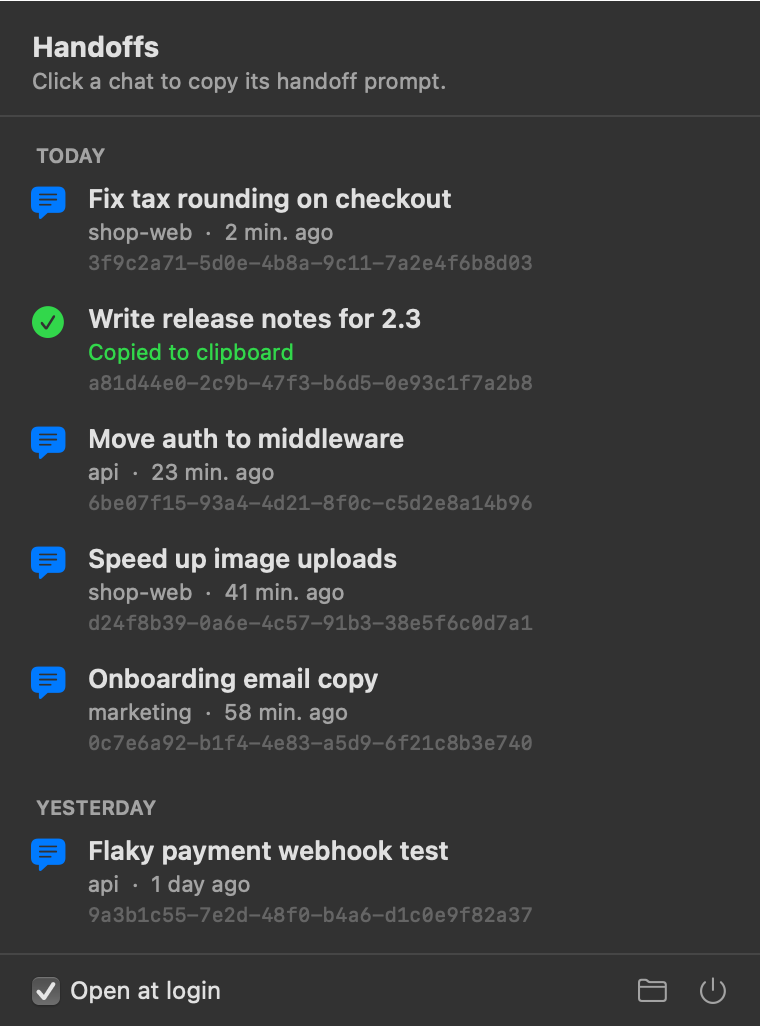
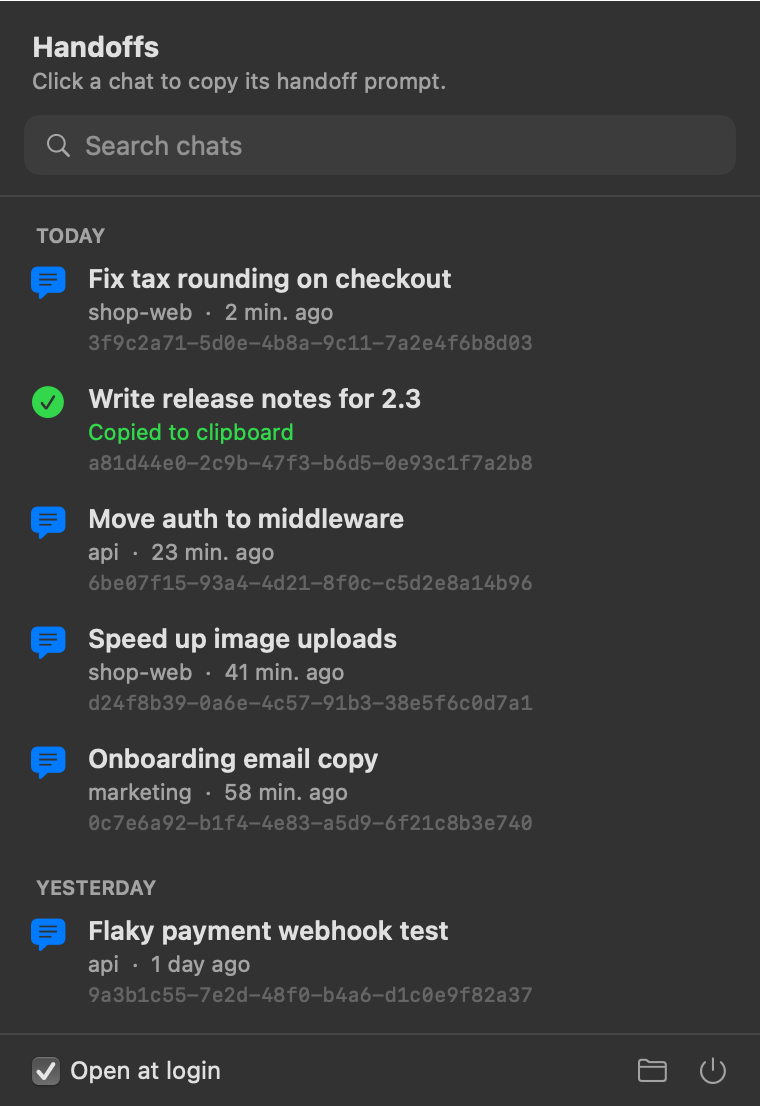
Proxylang header, features, new screenshots

diff --git a/site/index.html b/site/index.html
@@ -97,6 +97,41 @@
 
   .shot picture { display: contents; }
 
+  /* Proxylang bar, same as the one on tappy.dog. Every gradient stop keeps white text at 4.5:1 or better. */
+  .sponsor {
+    display: block; position: relative; overflow: hidden; color: #fff; text-decoration: none;
+    background: linear-gradient(100deg, #b3137a, #ce1689, #d41e8f, #ce1689, #b3137a);
+    background-size: 300% 100%;
+  }
+  .sponsor-inner { display: flex; align-items: center; gap: 16px; max-width: 1120px; margin: 0 auto; padding: 10px 24px; font-size: 14px; }
+  .sponsor-by { display: flex; align-items: center; gap: 8px; flex-shrink: 0; font-size: 11px; font-weight: 700; text-transform: uppercase; letter-spacing: .08em; color: rgb(255 255 255 / .85); }
+  .sponsor-chip { display: inline-flex; background: #fff; border-radius: 6px; padding: 4px 8px; }
+  .sponsor-chip img { height: 16px; width: auto; display: block; }
+  .sponsor-text { flex: 1; min-width: 0; }
+  .sponsor-text b { font-weight: 600; }
+  .sponsor-cta {
+    flex-shrink: 0; background: #fff; color: #b3137a; font-weight: 700; font-size: 13px;
+    border-radius: 999px; padding: 6px 14px; transition: transform .2s cubic-bezier(.16,1,.3,1);
+  }
+  .sponsor:hover .sponsor-cta { transform: translateY(-1px); }
+  .sponsor:focus-visible { outline: 2px solid #fff; outline-offset: -4px; }
+  @media (prefers-reduced-motion: no-preference) {
+    .sponsor { animation: sponsor-drift 12s ease-in-out infinite alternate; }
+    .sponsor::before {
+      content: ""; position: absolute; inset: 0; width: 30%; pointer-events: none;
+      background: linear-gradient(100deg, transparent, rgb(255 255 255 / .14), transparent);
+      transform: translateX(-120%); animation: sponsor-shine 6s ease-in-out infinite;
+    }
+    @keyframes sponsor-drift { from { background-position: 0% 50%; } to { background-position: 100% 50%; } }
+    @keyframes sponsor-shine { 0%, 55% { transform: translateX(-120%); } 100% { transform: translateX(420%); } }
+  }
+  @media (max-width: 860px) {
+    .sponsor-inner { flex-wrap: wrap; gap: 6px 12px; padding: 8px 16px; }
+    .sponsor-cta { margin-left: auto; }
+    .sponsor-text { order: 3; flex-basis: 100%; }
+    .sponsor-more { display: none; }
+  }
+
   @media (prefers-reduced-motion: no-preference) {
     .rise { animation: rise .7s cubic-bezier(.16,1,.3,1) both; }
     .rise.d2 { animation-delay: .12s; }
@@ -113,6 +148,13 @@
 </style>
 </head>
 <body>
+<a class="sponsor" href="https://proxylang.dev/?utm_source=handoffbar&amp;utm_medium=banner&amp;utm_campaign=getstarted15">
+  <span class="sponsor-inner">
+    <span class="sponsor-by">Made by <span class="sponsor-chip"><img src="/proxylang-logo.svg" alt="Proxylang" width="80" height="20"></span></span>
+    <span class="sponsor-text"><b>Proxylang translates websites.</b><span class="sponsor-more"> 77 languages from one line of code.</span></span>
+    <span class="sponsor-cta">15% off your first month</span>
+  </span>
+</a>
 <header>
   <div class="wrap">
     <a class="brand" href="/"><img src="/icon.png" alt="">HandoffBar</a>
@@ -133,7 +175,7 @@
     <div class="shot rise d2">
       <picture>
         <source srcset="/panel-dark.png" media="(prefers-color-scheme: dark)">
-        <img src="/panel-light.png" width="380" height="513" alt="The HandoffBar panel: a list of recent chats with titles, project names, and times. One row says Copied to clipboard.">
+        <img src="/panel-light.png" width="380" height="553" alt="The HandoffBar panel: a search box above a list of recent chats with titles, project names, and times. One row says Copied to clipboard.">
       </picture>
     </div>
   </div>
@@ -177,8 +219,12 @@
 
   <section>
     <div class="wrap">
-      <h2>Small, local, free</h2>
+      <h2>Features</h2>
       <div class="facts">
+        <div><h3>Search every chat</h3><p>Type to filter by title, project, or chat id. Search covers every saved handoff.</p></div>
+        <div><h3>Your tab names</h3><p>Chats show the name you gave the tab, even if you rename it after the handoff was saved.</p></div>
+        <div><h3>Easy to scan</h3><p>Chats are grouped by day, with the project and how long ago. Hover one to see your last request.</p></div>
+        <div><h3>Open at login</h3><p>One checkbox keeps it running after a restart. Light and dark mode follow your Mac.</p></div>
         <div><h3>Nothing leaves your Mac</h3><p>No network calls, no account, no model calls. It only reads the chat files Claude Code already keeps.</p></div>
         <div><h3>Signed by Apple</h3><p>Notarized, so it opens without a security warning.</p></div>
         <div><h3>Any recent Mac</h3><p>macOS 13 or later, Apple Silicon or Intel.</p></div>
@@ -194,7 +240,7 @@
           <h2>Made by Proxylang</h2>
           <p class="sub">Proxylang translates websites into 77+ languages. Add one line of code and your site is live in other languages in about a minute, with per-language SEO built in.</p>
         </div>
-        <a class="btn btn-ghost" href="https://proxylang.dev">Visit proxylang.dev</a>
+        <a class="btn btn-ghost" href="https://proxylang.dev/?utm_source=handoffbar&amp;utm_medium=site&amp;utm_campaign=getstarted15">15% off your first month</a>
       </div>
     </div>
   </section>

diff --git a/README.md b/README.md
@@ -1,3 +1,5 @@
+<a href="https://proxylang.dev/?utm_source=handoffbar&utm_medium=github&utm_campaign=getstarted15"><img src="site/proxylang-banner.png" width="880" alt="Made by Proxylang. Proxylang translates websites: 77 languages from one line of code. 15% off your first month."></a>
+
 <p align="center"><img src="site/icon.png" width="128" alt="HandoffBar icon"></p>
 
 <h1 align="center">HandoffBar</h1>
@@ -5,13 +7,27 @@
 <p align="center">Pick up any <a href="https://claude.com/claude-code">Claude Code</a> chat where you left off.<br>
 <a href="https://github.com/Proxylang/handoff-bar/releases/latest/download/HandoffBar.dmg"><b>Download for Mac</b></a> · <a href="https://handoffbar.proxylang.dev">Website</a></p>
 
-<p align="center"><img src="site/panel-light.png" width="380" alt="The HandoffBar panel: recent chats with titles, project names, and times"></p>
+<p align="center"><picture>
+<source media="(prefers-color-scheme: dark)" srcset="site/panel-dark.png">
+<img src="site/panel-light.png" width="380" alt="The HandoffBar panel: a search box above recent chats with titles, project names, and times">
+</picture></p>
 
 ## What it does
 
 Claude Code caches each chat so replies stay fast and cheap. Leave a chat alone too long and the cache expires. The next message then re-reads the whole chat at full price.
 
 HandoffBar watches your chats. A few minutes before a chat's cache expires, it saves a **handoff**: a short Markdown summary of that chat. Click the hand in your menu bar, click the chat, and paste the handoff into a new Claude Code chat to keep going.
+
+## Features
+
+- **Saves handoffs on time.** Each chat's handoff is written a few minutes before its cache expires. HandoffBar works out per chat whether the cache lasts 5 minutes or 1 hour.
+- **One click to copy.** Click a chat and its handoff prompt is on your clipboard, ready to paste.
+- **Search.** Type to filter by chat title, project, or chat id. Search covers every saved handoff.
+- **Your tab names.** Chats show the name you gave the tab, even if you rename it after the handoff was saved.
+- **Easy to scan.** Chats are grouped by day, with the project and how long ago. Hover a chat to see your last request.
+- **Open at login.** One checkbox keeps it running after a restart.
+- **Light and dark mode.** Follows your Mac's setting.
+- **Local only.** No network calls, no account, no model calls.
 
 ## What a handoff contains
 
